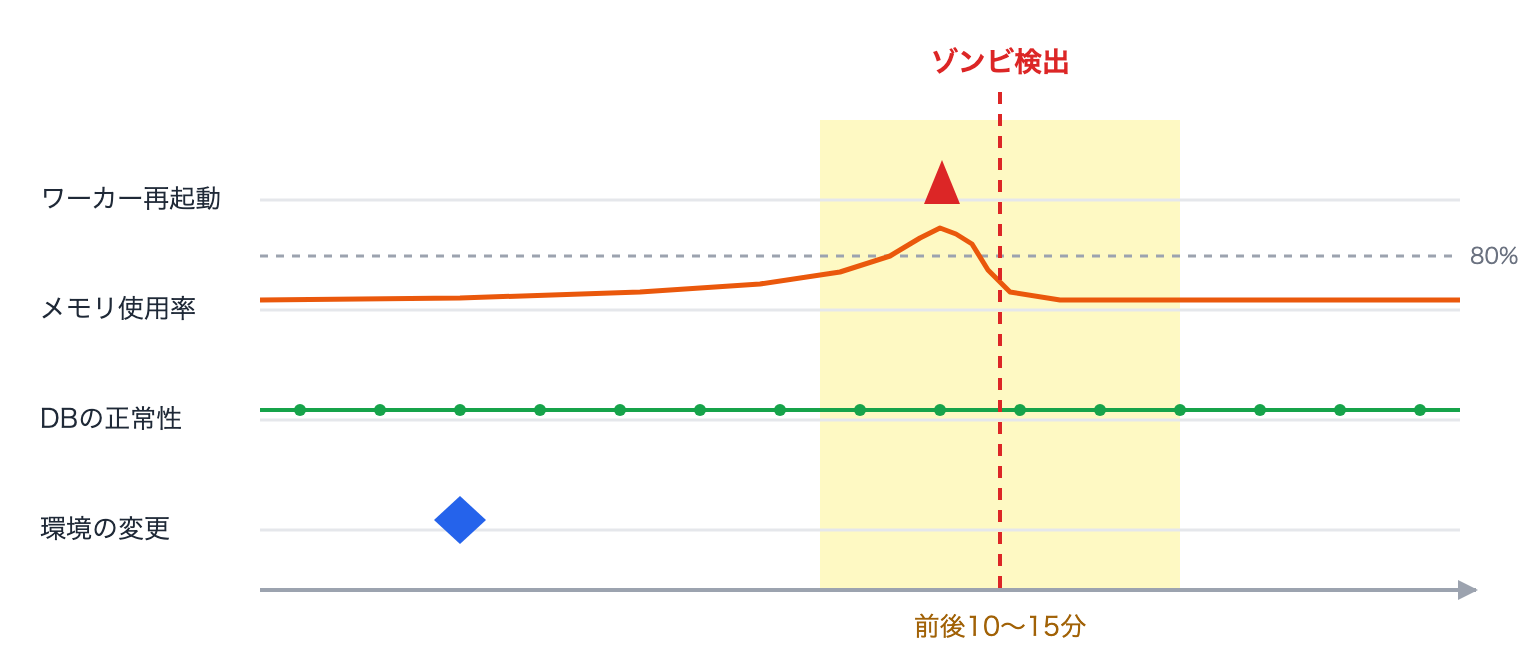
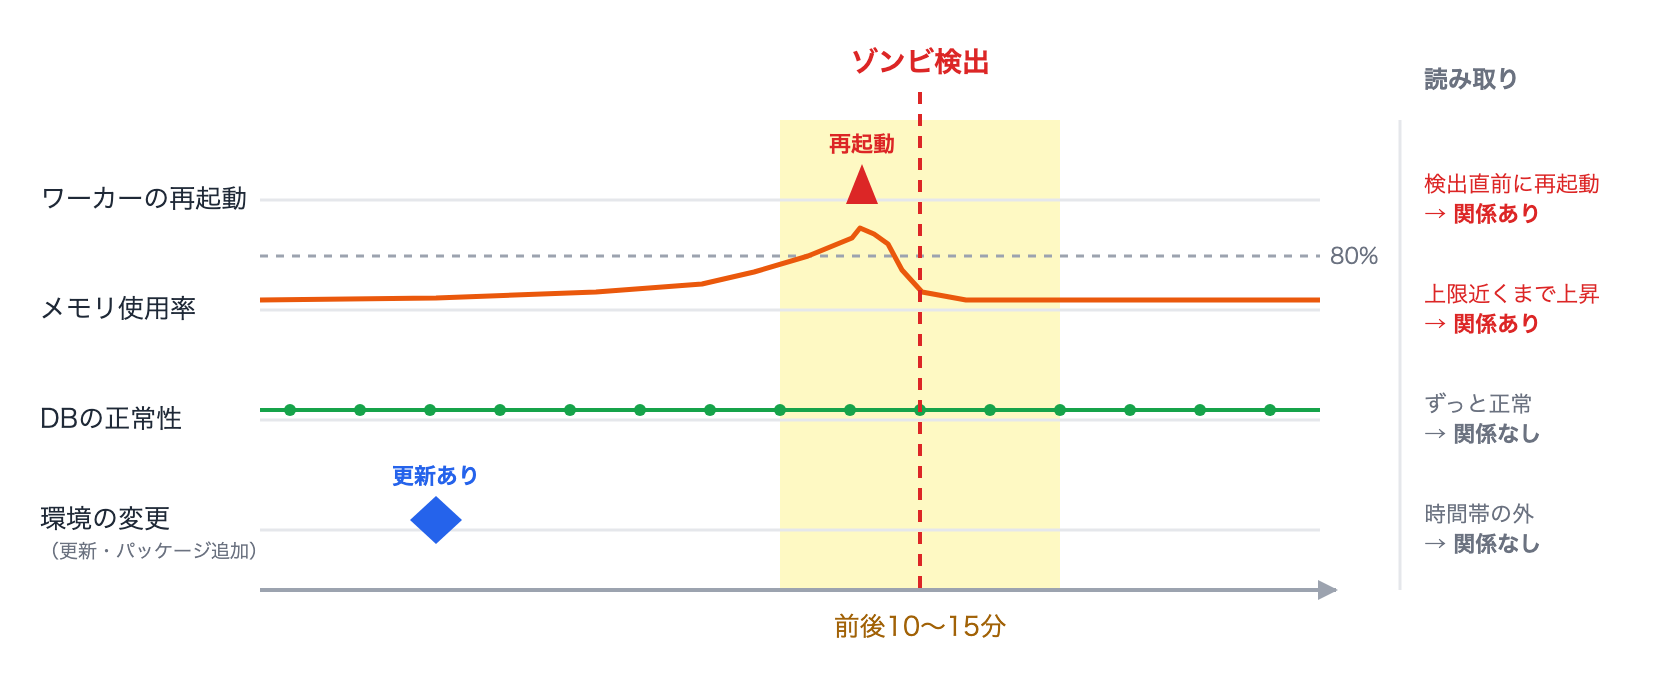
update: 図4に出来事のラベルと各行の読み取りを追加

diff --git a/articles/airflow-zombie-job.md b/articles/airflow-zombie-job.md
@@ -112,7 +112,7 @@ Google Cloudの[公式ドキュメント](https://docs.cloud.google.com/composer
 原因候補が複数あるので、検出時刻の前後10〜15分に絞って、ワーカー → メタデータDB → 環境の変更 → 通信の順に確認します。
 
 ![検出時刻を軸に各情報を重ねて見る](/images/airflow-zombie-job/fig4-window.png)
-*検出時刻を軸に、同じ時間帯の情報を重ねて見る。この例ではメモリの上昇と再起動が検出直前に重なり、環境の変更は時間帯の外にある*
+*検出時刻の前後10〜15分に、ワーカーの再起動・メモリ使用率・DBの正常性・環境の変更を同じ時間軸で重ねる。この例では再起動とメモリの上昇が検出直前にあり、DBは正常、環境の変更は時間帯の外なので、ワーカー側を疑う*
 
 以降のコマンドの `YOUR_PROJECT_ID`、`YOUR_COMPOSER_ENVIRONMENT`、`YOUR_WORKER_NAME` は調査対象に置き換えてください。メトリクスはすべてMetrics Explorer（`https://console.cloud.google.com/monitoring/metrics-explorer?project=YOUR_PROJECT_ID`）で表示できます。
 
